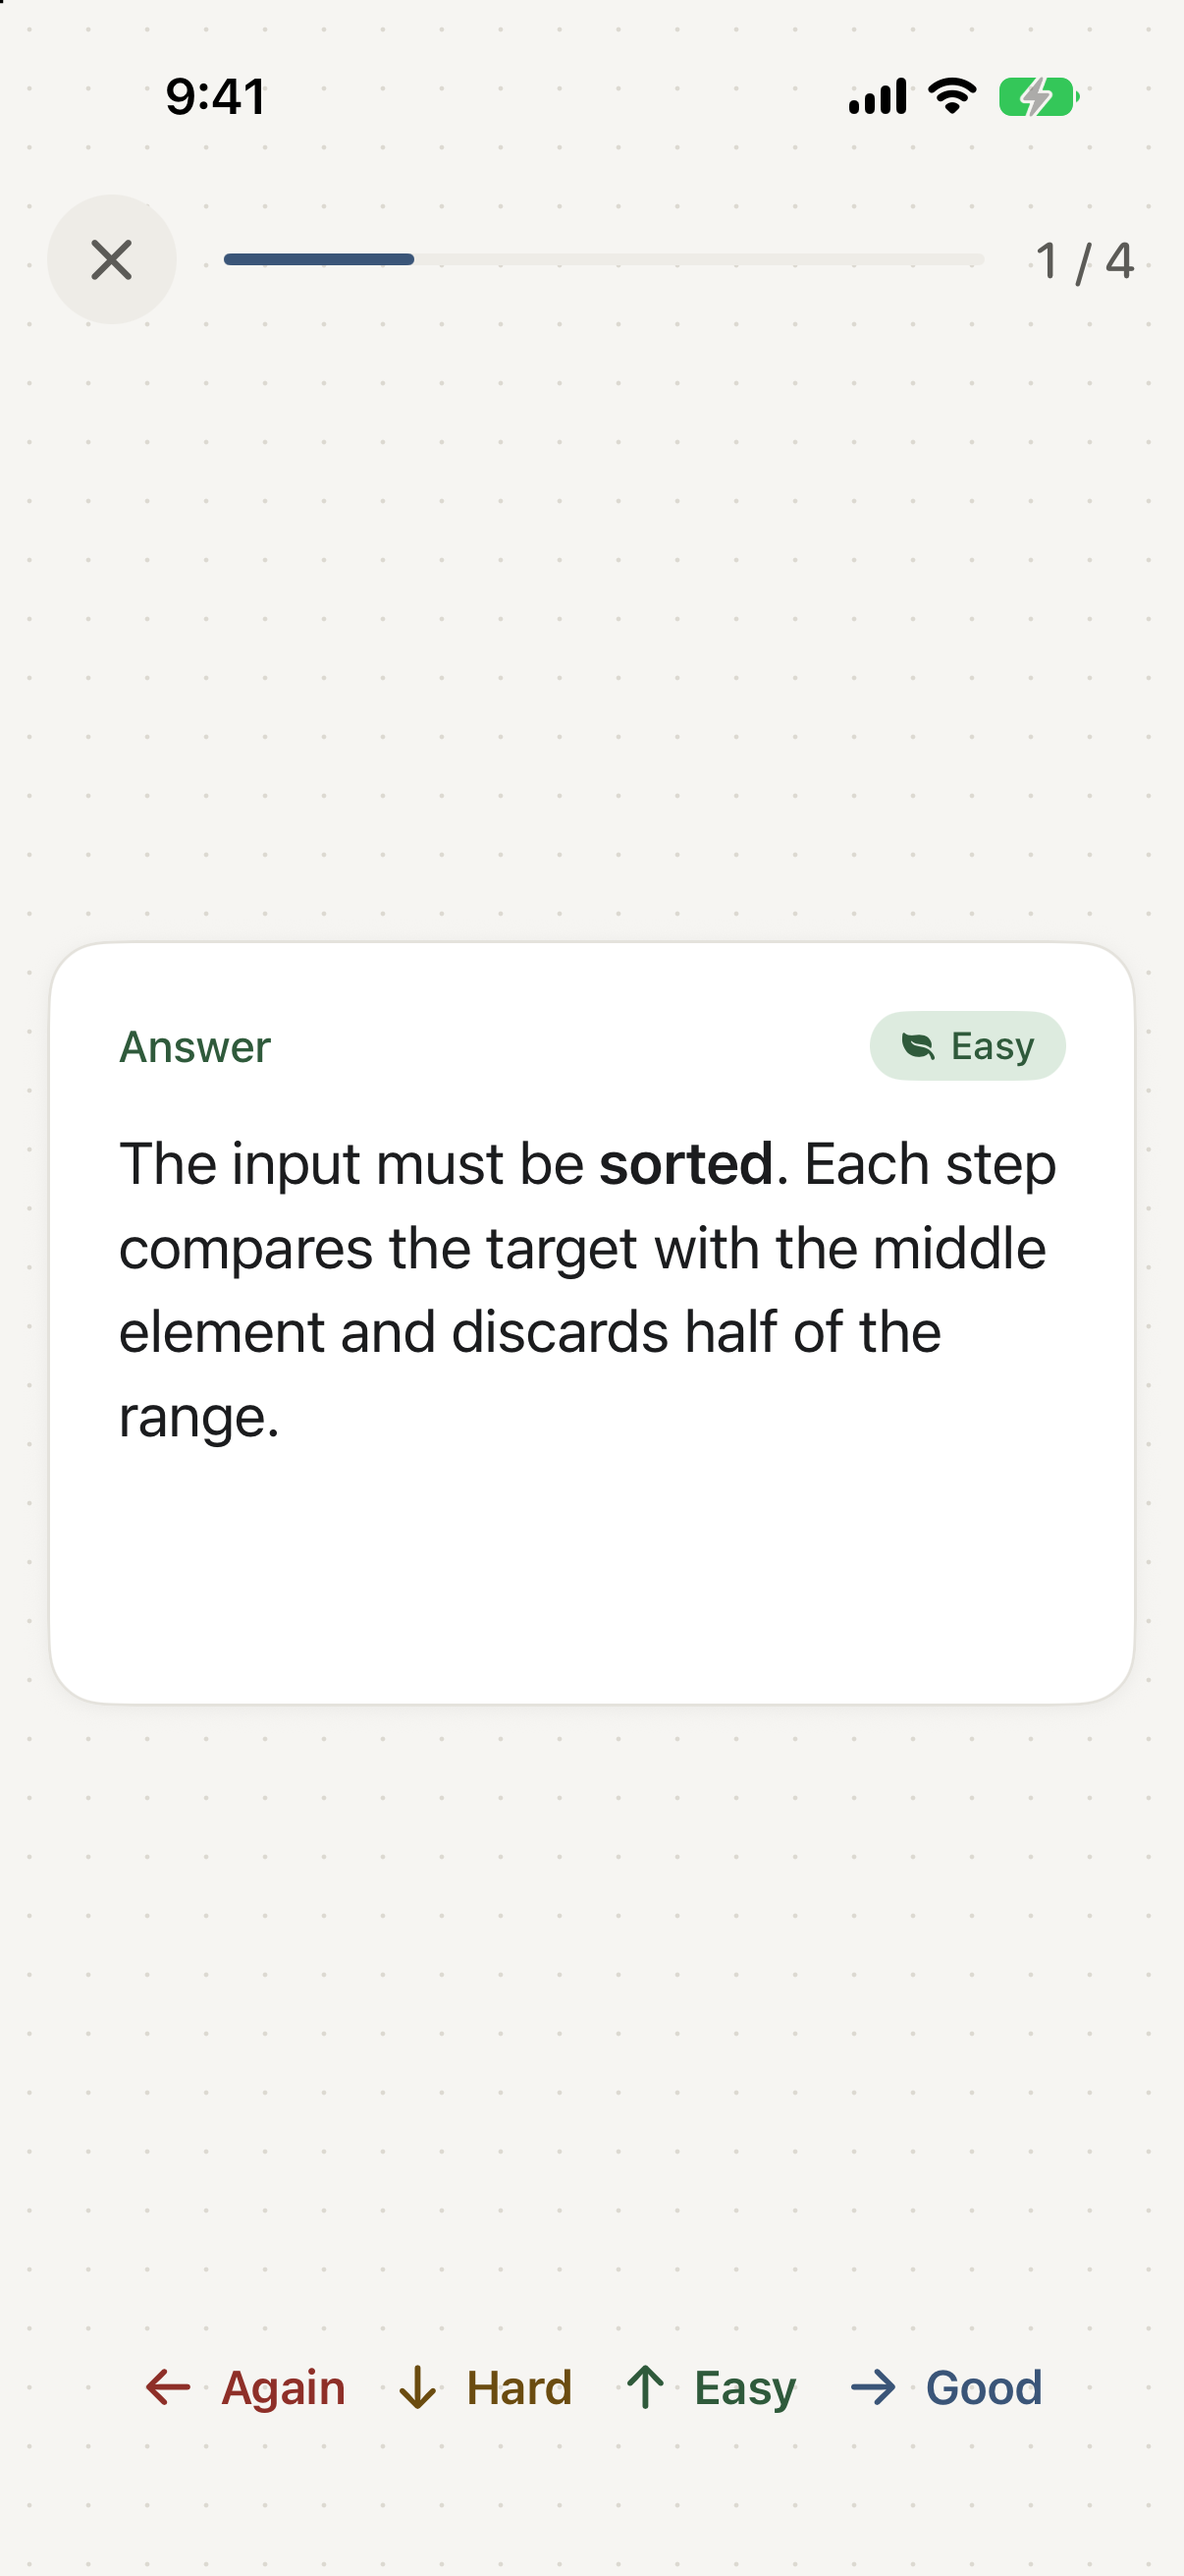
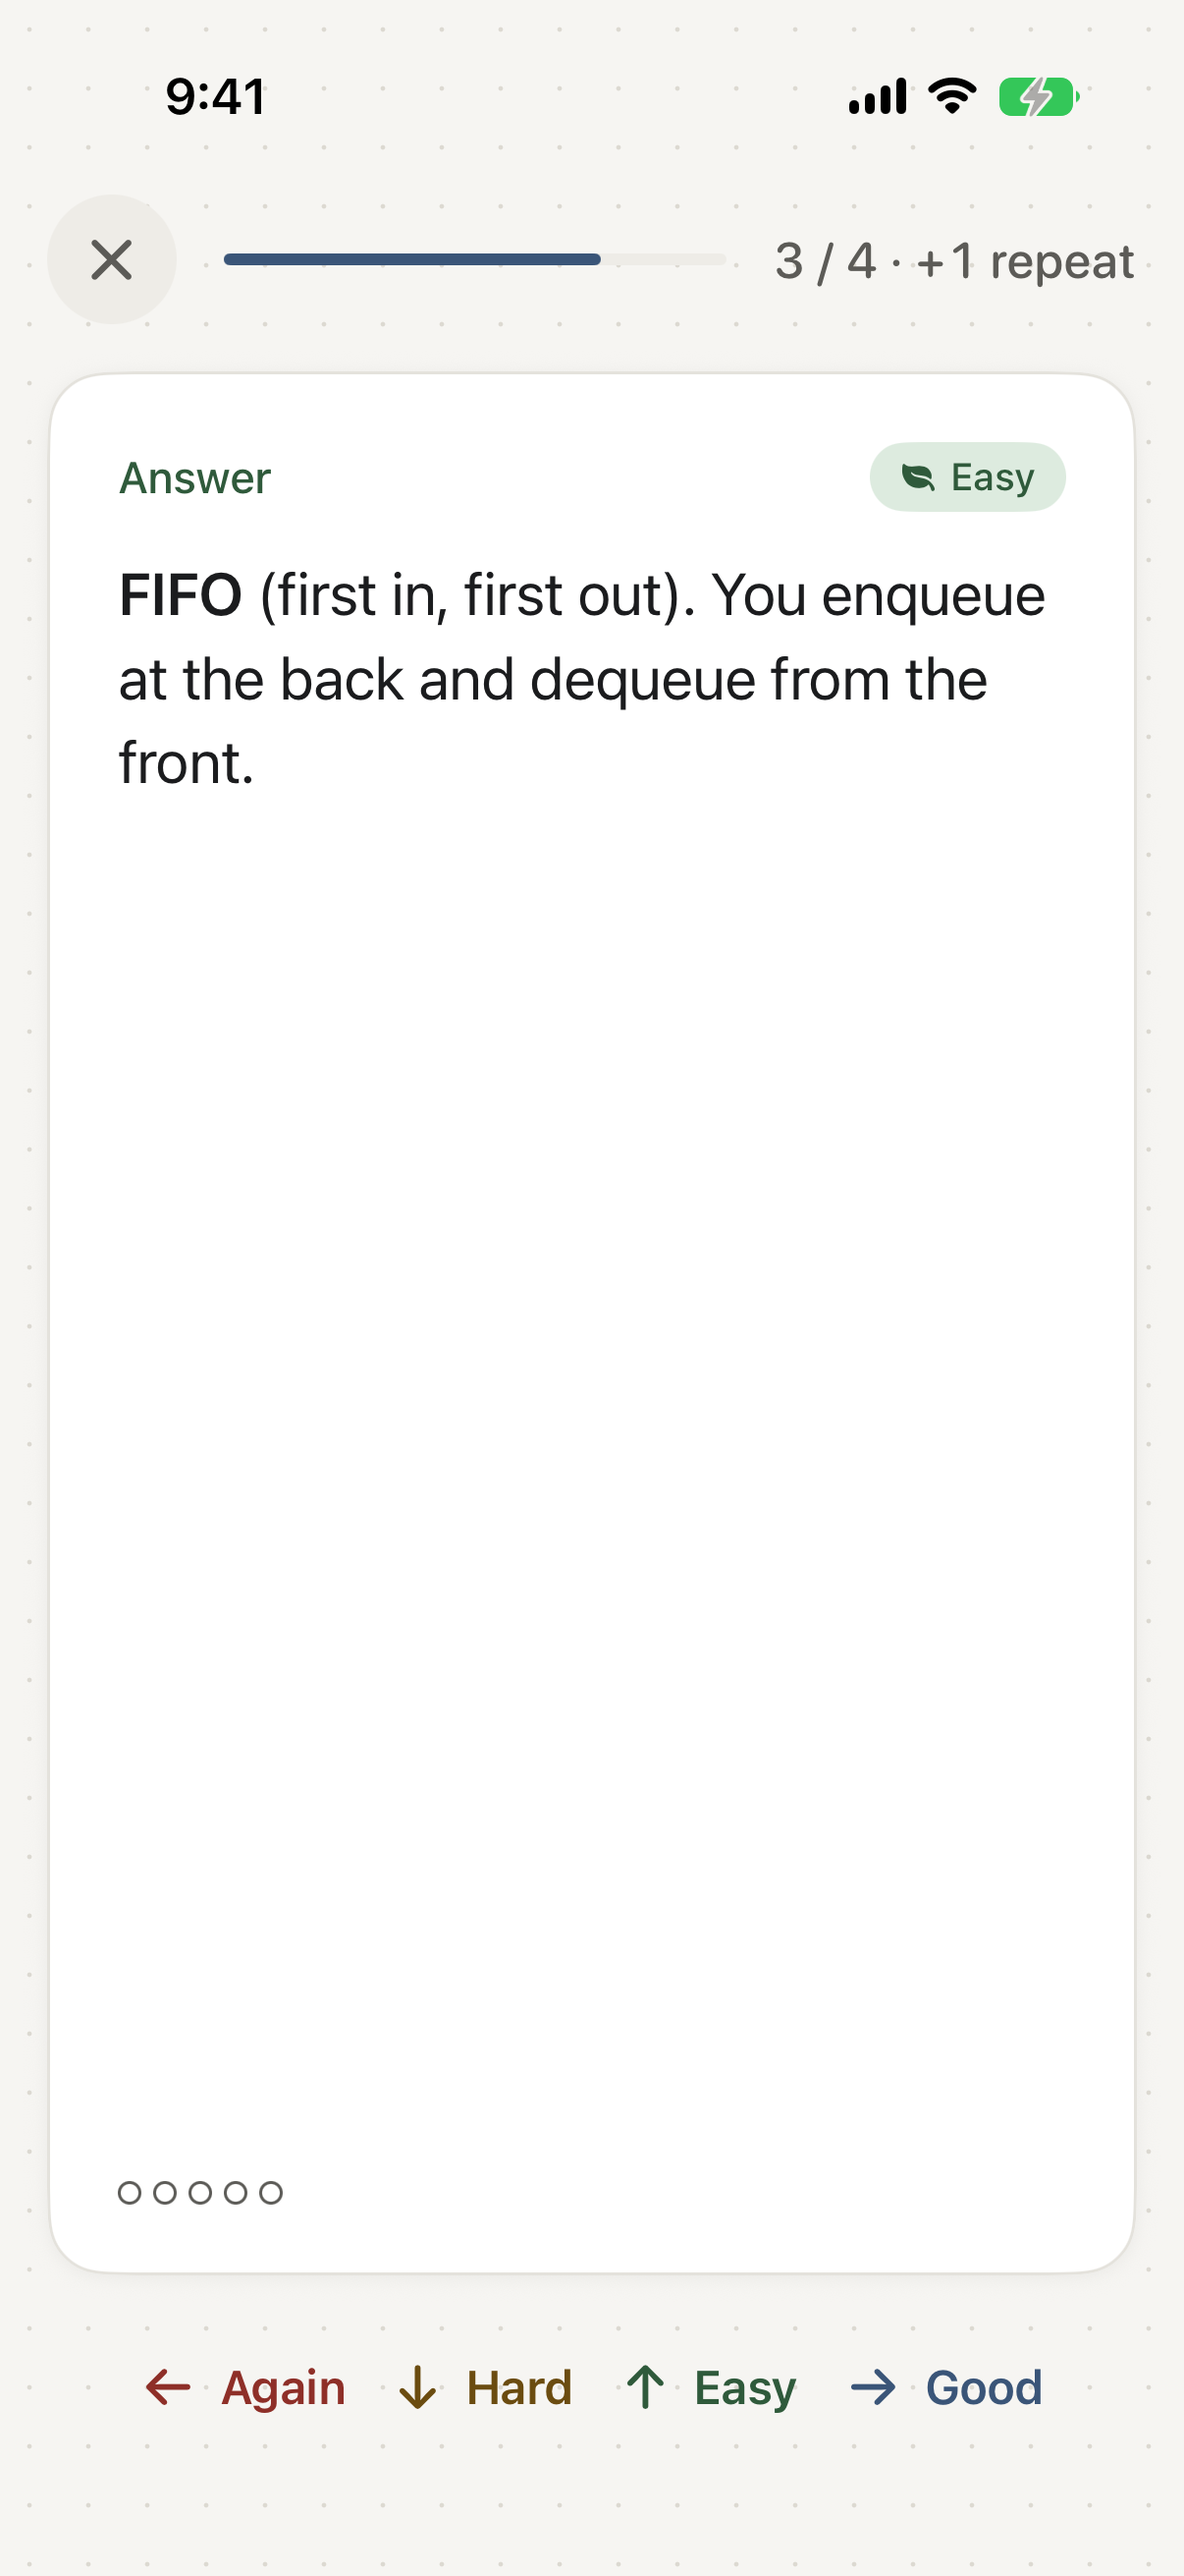
test(ui): dismiss keyboard in deck builder test, update screenshot
- DeckBuilderUITests tapped 'Add code' while the keyboard covered it; it
  now uses the builder's keyboard Done button first.
- Retake docs/figures/study.png with the mastery dots and the +1 repeat
  counter.
- Record the second audit and team answers in todo.txt.

diff --git a/codey/UITests/DeckBuilderUITests.swift b/codey/UITests/DeckBuilderUITests.swift
@@ -31,6 +31,9 @@ final class DeckBuilderUITests: XCTestCase {
         app.buttons["strip.addCard"].tap()
         hittable(app.textViews.matching(NSPredicate(format: "label == 'Prompt'"))).tap()
         app.typeText("What prints?")
+        // The keyboard covers "Add code" on smaller phones; close it the
+        // way a user would, with the builder's keyboard "Done" button.
+        dismissKeyboard()
         hittable(app.buttons.matching(identifier: "card.addCode")).tap()
 
         let language = hittable(app.buttons.matching(identifier: "card.language"))
@@ -60,6 +63,11 @@ final class DeckBuilderUITests: XCTestCase {
         hittable(app.textViews.matching(NSPredicate(format: "label == 'Answer'"))).tap()
         app.typeText(answer)
         switchSide(to: "Front")
+    }
+
+    private func dismissKeyboard() {
+        let done = app.toolbars.buttons["Done"]
+        if done.waitForExistence(timeout: 2) { done.tap() }
     }
 
     private func switchSide(to side: String) {
